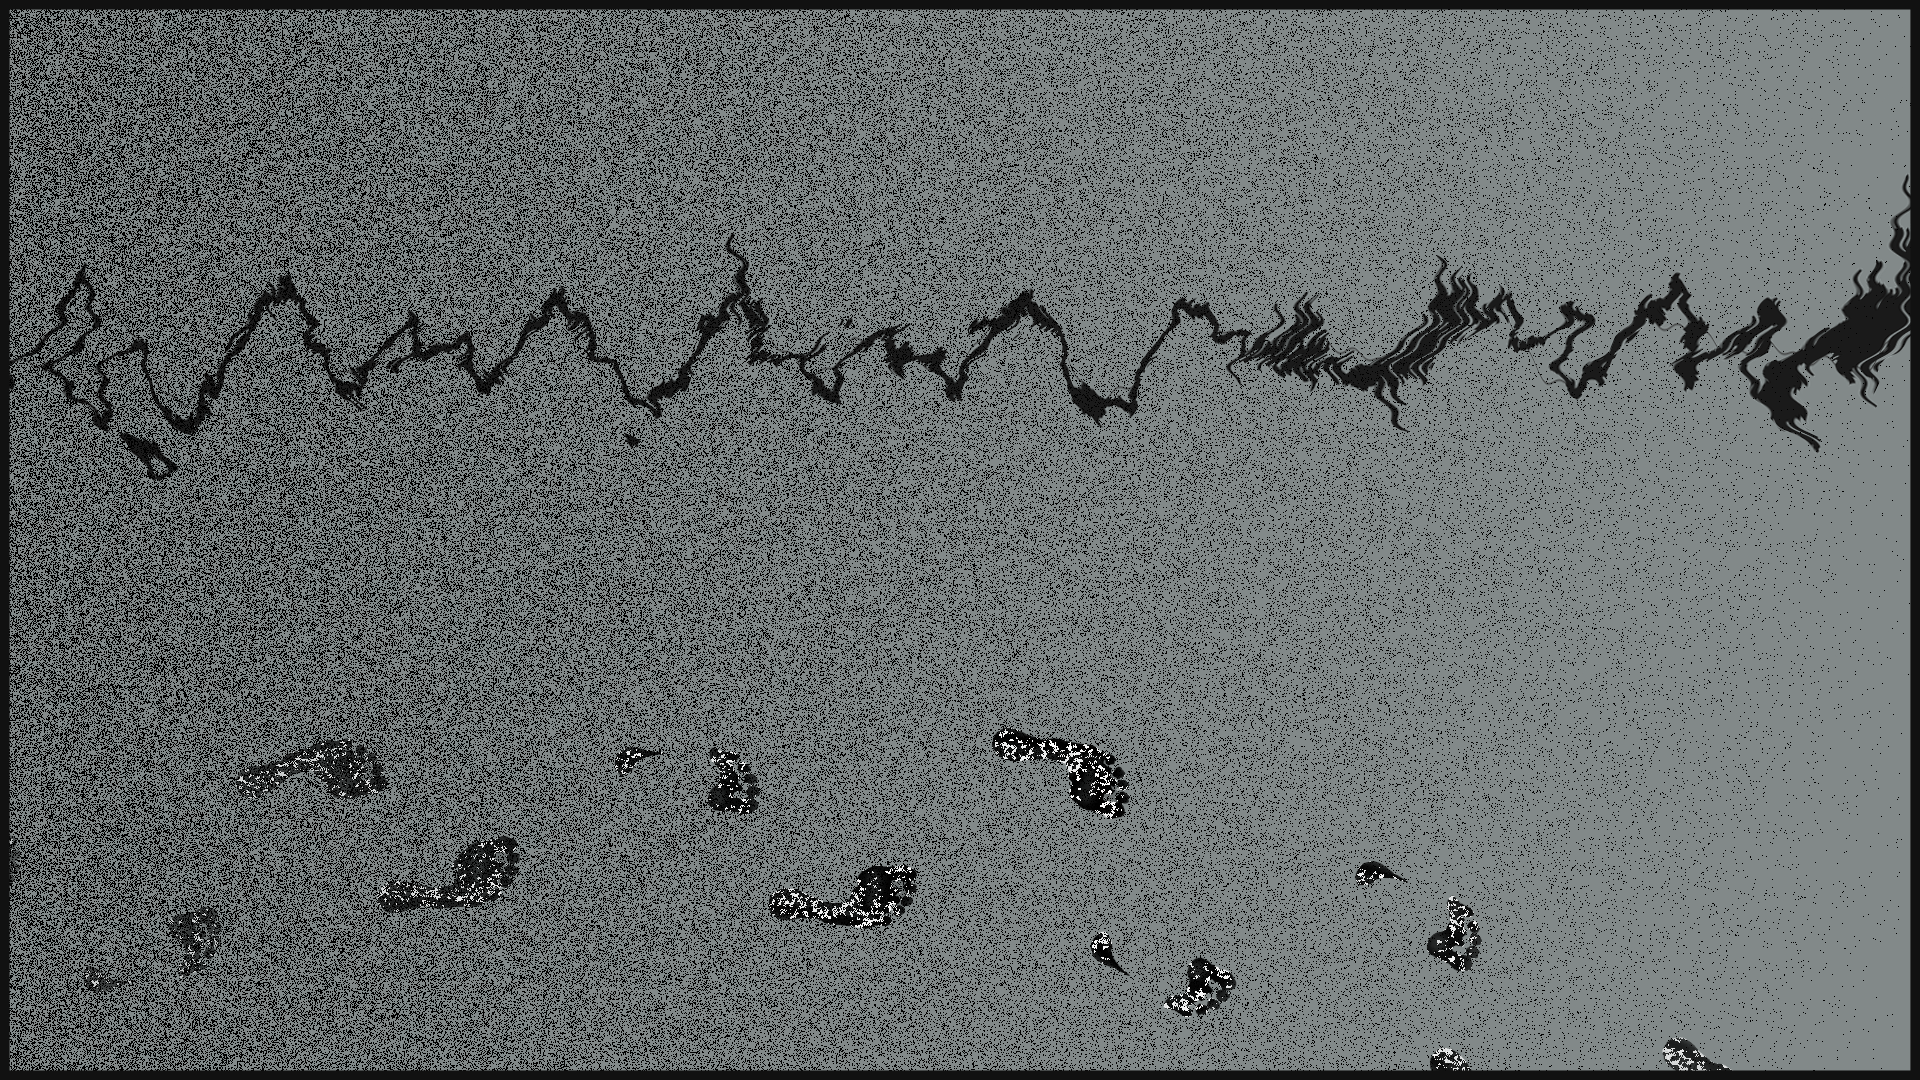
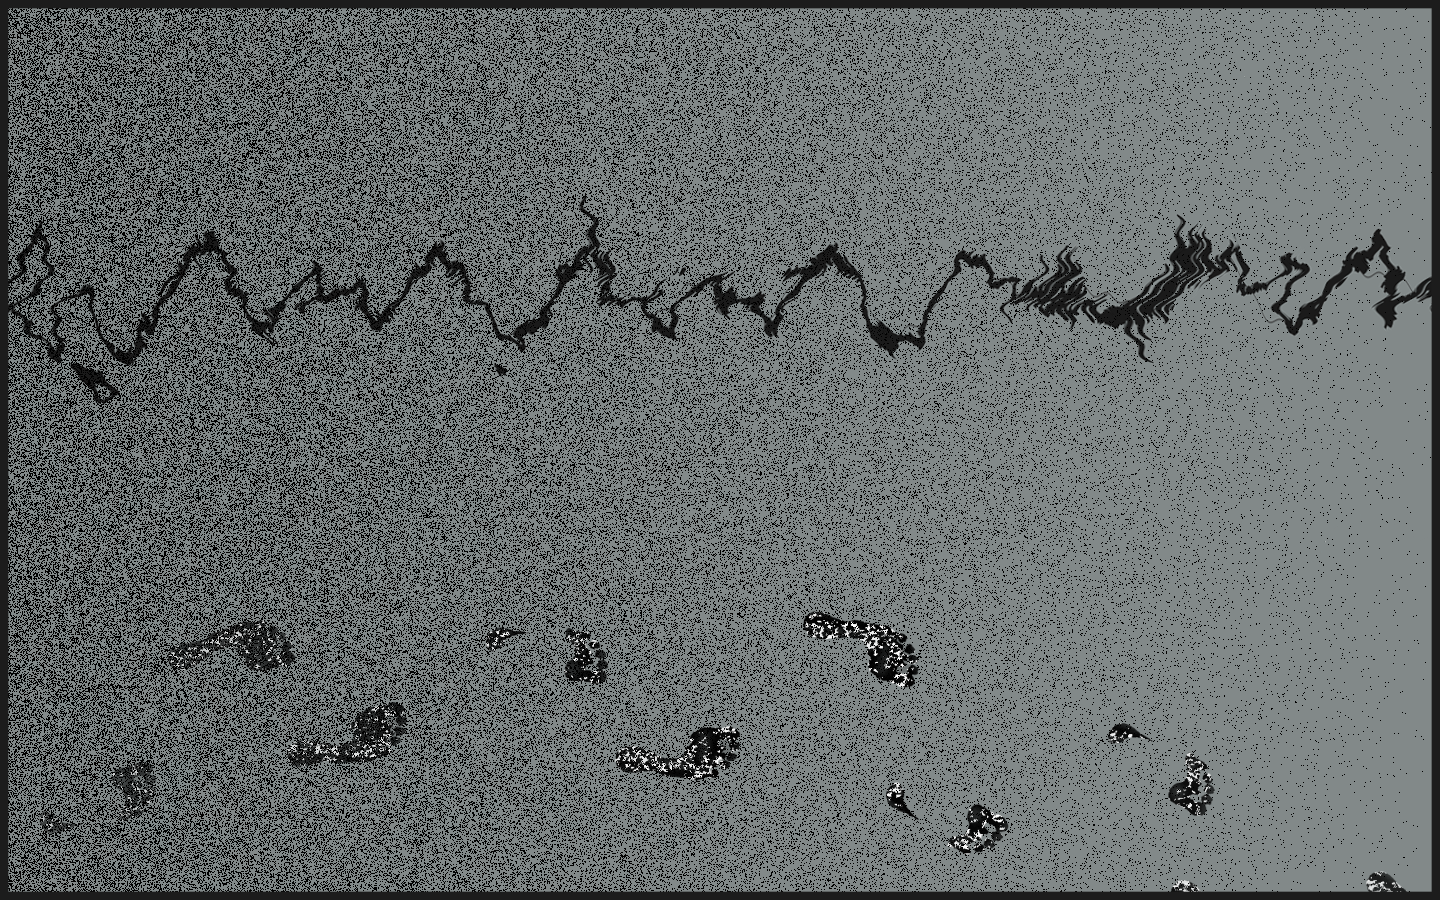
Added all image files, reformatted size of images so they are all the same. Updated score_gui.py so that images allocated to each section are correct.

diff --git a/sub_guis/score_gui.py b/sub_guis/score_gui.py
@@ -218,7 +218,8 @@ class ScoreGUI(tk.Toplevel):
         :return: None
         """
         img_list = ["cell_aggregate_as.png", "cell_aggregate_ecl.png",
-                    "cell_first_five_combo_as.png", "cell_first_five_combo_ecl.png"]
+                    "cell_first_five_combo_as.png", "cell_first_five_combo_ecl.png",
+                    "cell_aggregate_1", "cell_aggregate_2", "cell_first_five_1", "cell_first_five_2"]
         directory = image_data_loader.get_path_by_instrument_name(self.root.instrument)
         subtract_this_ca = cell_assigner.CellAssigner(
             image_data_loader.get_these_images(dir=directory, image_list=img_list))
@@ -230,7 +231,8 @@ class ScoreGUI(tk.Toplevel):
         :return: None
         """
         self.sections_one_through_three()
-        img_list = ["cell_first_five_combo_as.png", "cell_first_five_combo_ecl.png"]
+        img_list = ["cell_first_five_combo_as.png", "cell_first_five_combo_ecl.png", "cell_first_five_1",
+                    "cell_first_five_2"]
         directory = image_data_loader.get_path_by_instrument_name(self.root.instrument)
         add_this_ca = cell_assigner.CellAssigner(image_data_loader.get_these_images(dir=directory, image_list=img_list))
         self.cell_assignment_for_score = self.cell_assignment_for_score + add_this_ca
@@ -241,7 +243,7 @@ class ScoreGUI(tk.Toplevel):
         :return: None
         """
         self.section_four()
-        img_list = ["cell_aggregate_as.png", "cell_aggregate_ecl.png"]
+        img_list = ["cell_aggregate_as.png", "cell_aggregate_ecl.png", "cell_aggregate_1", "cell_aggregate_2"]
         directory = image_data_loader.get_path_by_instrument_name(self.root.instrument)
         add_this_ca = cell_assigner.CellAssigner(
             image_data_loader.get_these_images(dir=directory, image_list=img_list))
